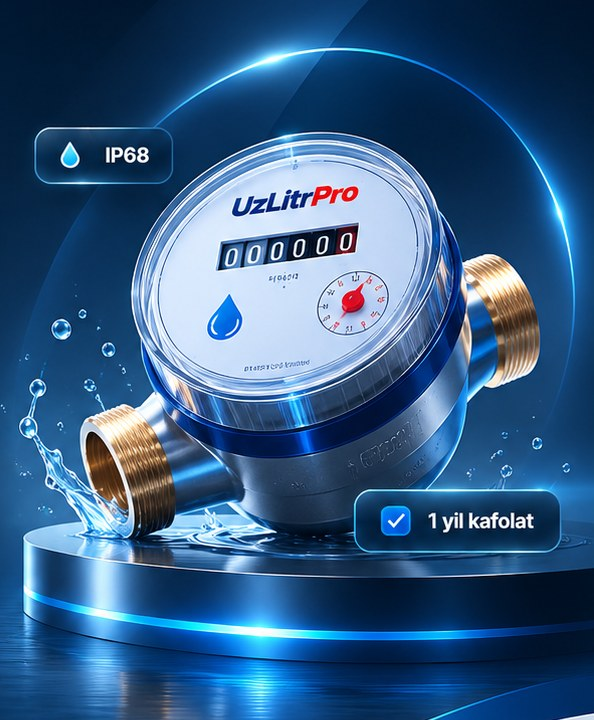
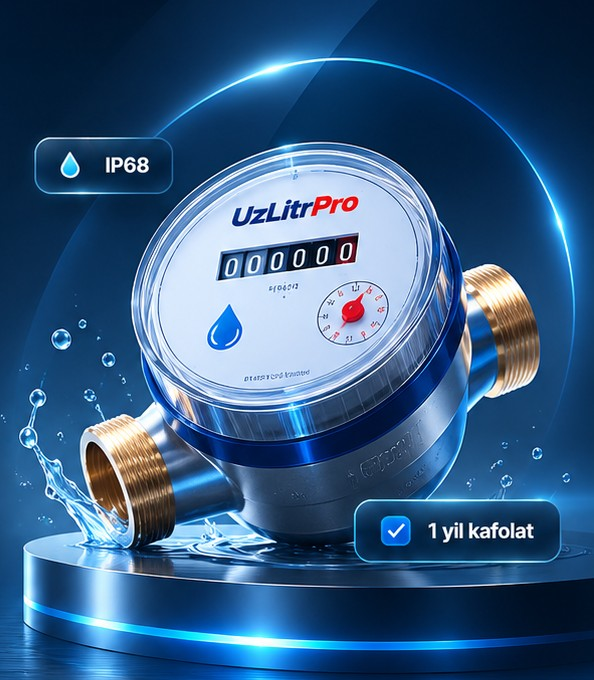
Hero matches the PDF: sharp meter picture, matching navy background, badges over the picture; interactive map in the PDF navy style
Claude-Session: https://claude.ai/code/session_01XDJXparPxY9mmuqEVM6T5h

diff --git a/css/pdf.css b/css/pdf.css
@@ -50,27 +50,43 @@ h1, h2, h3 { letter-spacing: -0.02em; }
 .hero {
   --wave-h: 214;
   background:
-    radial-gradient(900px 600px at 78% 40%, #134bb8 0%, transparent 62%),
-    radial-gradient(700px 500px at 0% 0%, #0b2a6e 0%, transparent 70%),
-    linear-gradient(180deg, #071a45 0%, #0a2463 60%, #0d2f80 100%);
+    radial-gradient(640px 520px at 74% 46%, rgba(26, 104, 200, 0.45) 0%, transparent 70%),
+    radial-gradient(900px 500px at 10% 0%, rgba(10, 60, 120, 0.5) 0%, transparent 70%),
+    linear-gradient(180deg, #04213f 0%, #062a4e 55%, #072f57 100%);
   padding: 70px 0 150px;
 }
-.hero::before { background: radial-gradient(circle, rgba(60, 130, 255, 0.35), transparent 70%); }
-.hero::after { background: radial-gradient(circle, rgba(40, 110, 255, 0.25), transparent 70%); }
+.hero::before, .hero::after { opacity: 0.35; }
 .hero-deco-circle { display: none; }
 .hero-pill { border-color: rgba(255, 255, 255, 0.35); background: rgba(255, 255, 255, 0.06); }
 .hero-pill svg { color: #7cc0ff; }
 .h1-dot { background: linear-gradient(135deg, #2ec5ff, #1f8bff); box-shadow: 0 0 14px rgba(46, 197, 255, 0.8); }
 .hero-actions .btn-outline-light { background: rgba(5, 20, 60, 0.4); }
 
-.hero-product { position: relative; max-width: 520px; margin: 0 auto; }
+.hero-product { position: relative; max-width: 540px; margin: 0 auto; }
 .hero-product-img {
+  display: block;
   width: 100%;
   height: auto;
-  -webkit-mask-image: radial-gradient(ellipse 50% 50% at 52% 50%, #000 58%, transparent 100%);
-  mask-image: radial-gradient(ellipse 50% 50% at 52% 50%, #000 58%, transparent 100%);
-  animation: heroFloat 6s ease-in-out infinite;
+  /* soften only the outer edges so the picture melts into the hero */
+  -webkit-mask-image: linear-gradient(to right, transparent 0, #000 14%, #000 88%, transparent 100%), linear-gradient(to bottom, transparent 0, #000 26%, #000 88%, transparent 100%);
+  -webkit-mask-composite: source-in;
+  mask-image: linear-gradient(to right, transparent 0, #000 14%, #000 88%, transparent 100%), linear-gradient(to bottom, transparent 0, #000 26%, #000 88%, transparent 100%);
+  mask-composite: intersect;
+  animation: heroFloat 7s ease-in-out infinite;
 }
+/* soft light pulsing behind the meter */
+.hero-product::before {
+  content: "";
+  position: absolute;
+  inset: 12% 10% 18%;
+  border-radius: 50%;
+  background: radial-gradient(circle, rgba(60, 150, 255, 0.35), transparent 65%);
+  filter: blur(20px);
+  animation: heroGlow 5s ease-in-out infinite;
+  z-index: 0;
+}
+.hero-product-img { position: relative; z-index: 1; }
+@keyframes heroGlow { 0%, 100% { opacity: 0.6; transform: scale(0.95); } 50% { opacity: 1; transform: scale(1.05); } }
 @keyframes heroFloat { 0%, 100% { transform: translateY(0); } 50% { transform: translateY(-10px); } }
 .hero-product .glass-badge {
   position: absolute;
@@ -93,8 +109,9 @@ h1, h2, h3 { letter-spacing: -0.02em; }
 .hero-product .hp-b2 .badge-icon svg { color: #fff; }
 .hero-product .glass-badge strong { color: #fff; font-size: 0.95rem; }
 /* positioned over the badges baked into the picture */
-.hp-b1 { left: 9%; top: 17%; }
-.hp-b2 { right: 3.5%; top: 68%; animation-delay: 1.2s !important; }
+.hero-product .glass-badge { animation: none; min-height: 8%; }
+.hp-b1 { left: 5.5%; top: 19.5%; min-width: 24%; }
+.hp-b2 { right: 4.5%; top: 72.5%; min-width: 37%; }
 
 /* Technology chips with icons, sitting on the wave */
 .tech-chips { display: grid; grid-template-columns: repeat(4, max-content); gap: 10px; }
@@ -312,15 +329,31 @@ h1, h2, h3 { letter-spacing: -0.02em; }
 /* Dealers */
 .dealers-head { position: relative; grid-template-columns: 1.05fr 1fr; align-items: center; }
 .dealers-head .num-grid { grid-column: 1 / -1; }
-.uzbekistan-map .map-region { fill: #1d5fe0; }
-.uzbekistan-map #UZTK.map-region:not(.selected):not(.hovered) { fill: #0d2f80; }
-.regions-map-card { background: var(--pdf-card); border-radius: 22px; box-shadow: var(--pdf-card-shadow); }
+/* Interactive map in the PDF look: deep navy 3D regions on a light glass card */
+.regions-map-card {
+  border-radius: 24px;
+  border: 1px solid rgba(255, 255, 255, 0.9);
+  background:
+    radial-gradient(600px 300px at 80% 0%, rgba(120, 180, 255, 0.25), transparent 70%),
+    repeating-radial-gradient(ellipse at 100% 0%, rgba(21, 80, 214, 0.05) 0 2px, transparent 2px 22px),
+    linear-gradient(160deg, #f4f8ff, #e6efff);
+  box-shadow: inset 0 1px 0 #fff, 0 0 0 1px rgba(21, 80, 214, 0.1), 0 30px 60px -30px rgba(13, 45, 120, 0.45);
+}
+.uzbekistan-map svg { filter: drop-shadow(0 18px 18px rgba(6, 30, 80, 0.3)); }
+.uzbekistan-map .map-region { paint-order: stroke; }
+.uzbekistan-map .map-neighbors text, .uzbekistan-map .map-neighbors { filter: none; }
+.uzbekistan-map .map-region { fill: #0e3a7e; stroke: rgba(170, 205, 255, 0.75); stroke-width: 1.2; }
+.uzbekistan-map #UZTK.map-region:not(.selected):not(.hovered) { fill: #0a2d66; }
+.uzbekistan-map .map-region.hovered, .uzbekistan-map .map-region.selected { fill: #071d45; }
+.uzbekistan-map .map-region-lift { fill: #1f6bff; stroke: #cfe1ff; }
+.region-selection-info { background: rgba(255, 255, 255, 0.75); border: 1px solid rgba(21, 80, 214, 0.12); border-radius: 14px; }
 .dealers-map-3d {
   width: 100%;
   max-width: 560px;
   justify-self: end;
-  -webkit-mask-image: radial-gradient(ellipse 70% 70% at center, #000 60%, transparent 100%);
-  mask-image: radial-gradient(ellipse 70% 70% at center, #000 60%, transparent 100%);
+  mix-blend-mode: multiply;
+  -webkit-mask-image: radial-gradient(ellipse 50% 50% at center, #000 70%, transparent 100%);
+  mask-image: radial-gradient(ellipse 50% 50% at center, #000 70%, transparent 100%);
 }
 .regions-map-section .num-tile { display: grid; grid-template-columns: auto 1fr; column-gap: 18px; align-items: center; }
 .regions-map-section .nt-ico { grid-row: span 2; border-radius: 14px; width: 54px; height: 54px; }
